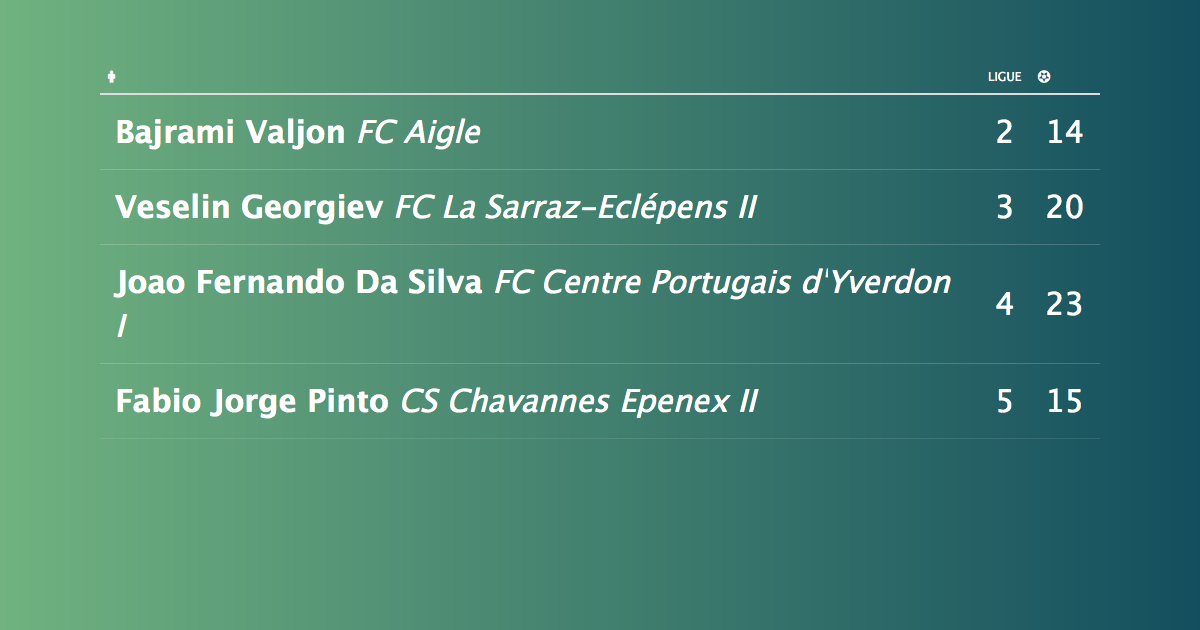
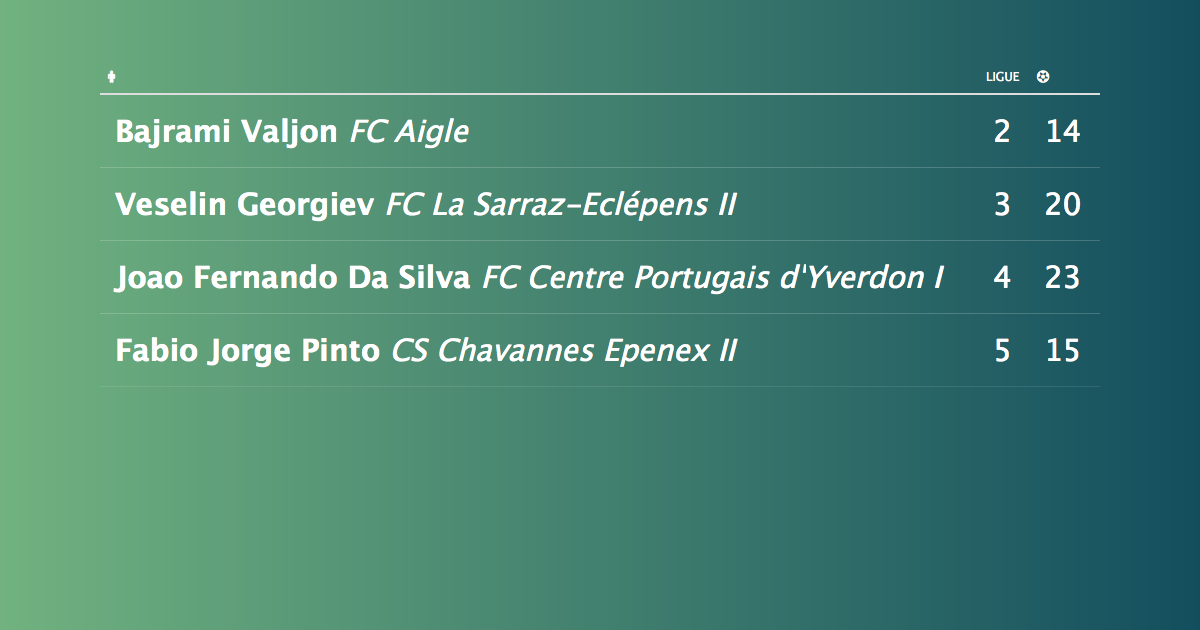
ACVF reminder post Facebook image

diff --git a/_layouts/resume-region-image.html b/_layouts/resume-region-image.html
@@ -78,7 +78,7 @@
 	    margin-top: 40px;
 		}
 		.facebook .stats-table-social-post table tr td{
-			font-size: 31px;
+			font-size: 30px;
 			vertical-align: middle;
 			padding: 15px;
 		}
